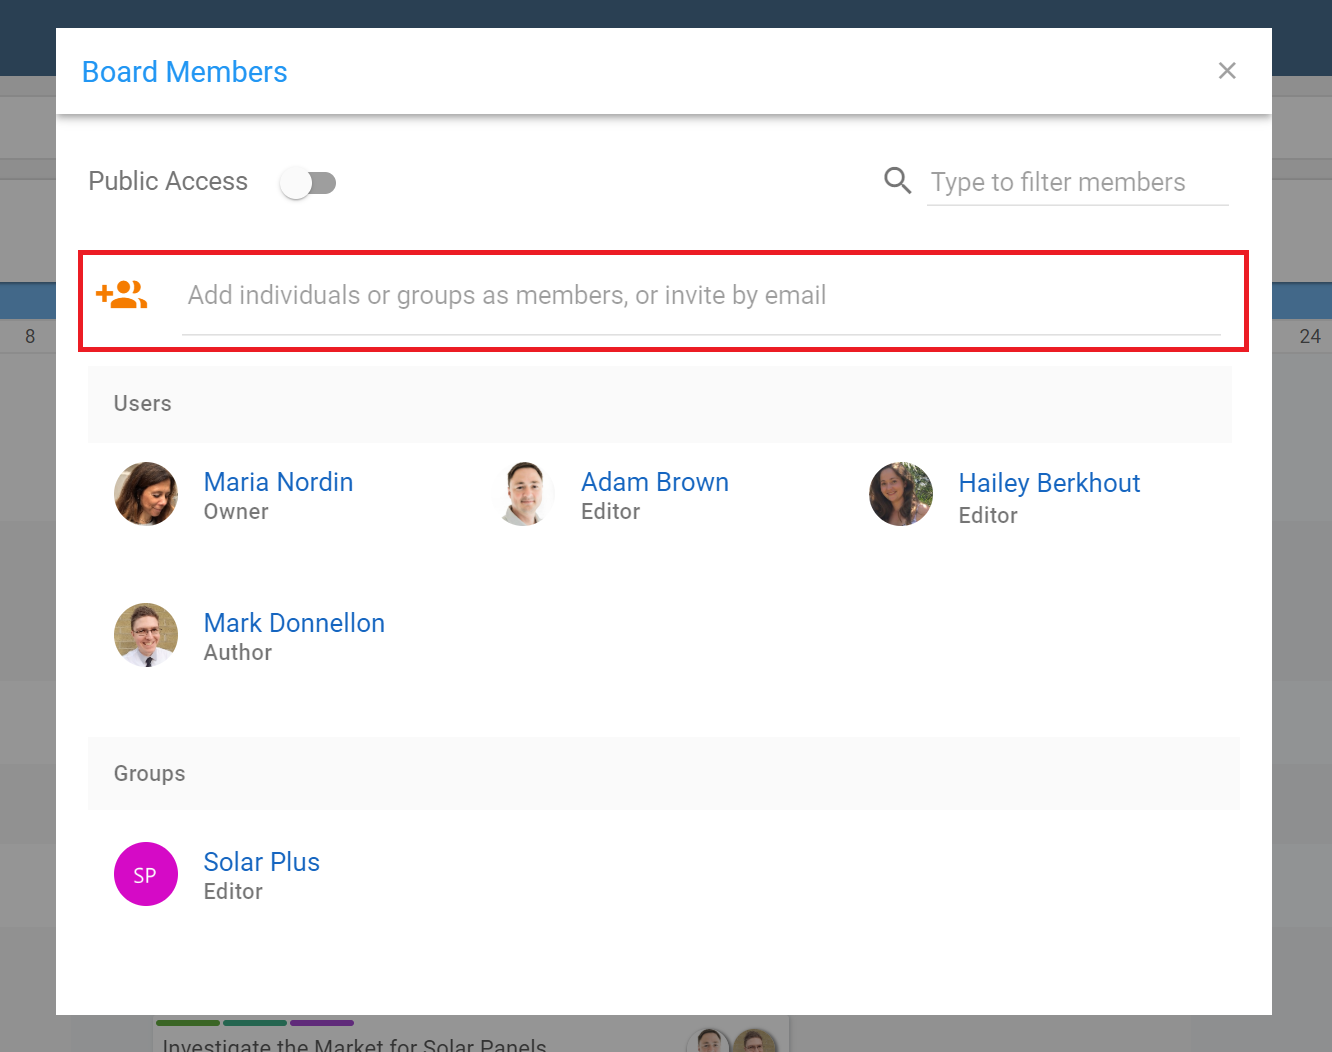
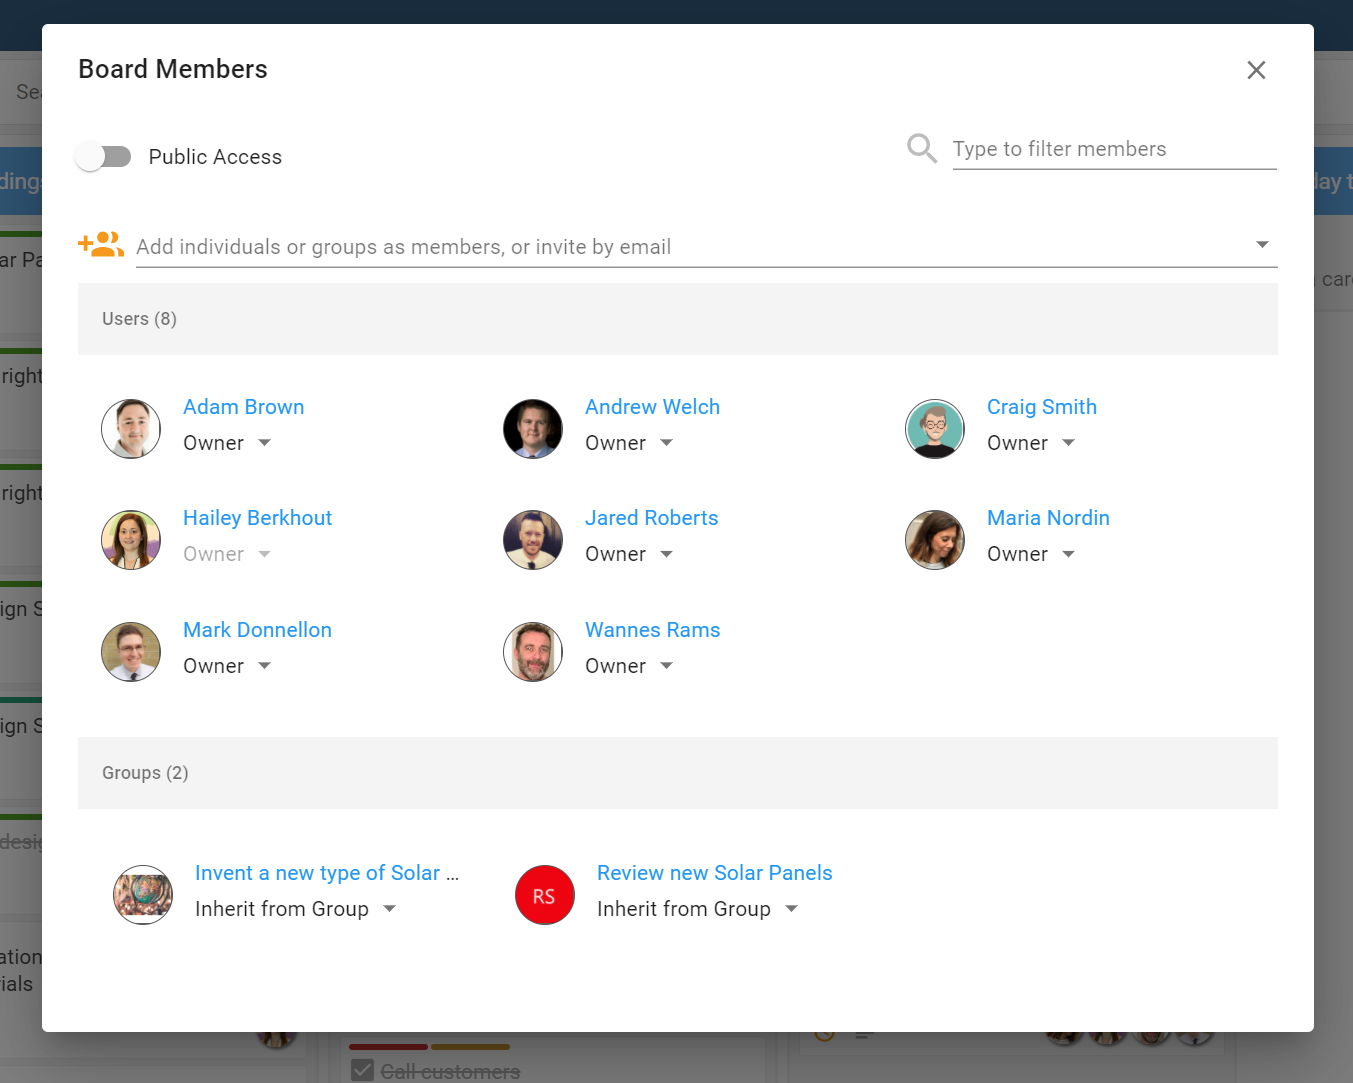
image updates to permissions and members

diff --git a/docs/boards/howto/adding-members-to-a-board.md b/docs/boards/howto/adding-members-to-a-board.md
@@ -8,7 +8,7 @@ You can add members when you first create a board.
 
 In the *New Board* creation phase, type in the name of any colleague or group in your organisation in the Add People field, or type in an email address of someone who is external to your organisation.
 
-You can also decide if you would like the board to have Public Access, meaning anyone in your organisation will be able to view the board (although not able to contribute unless they have been invited.)
+You can also decide if you would like the board to have Public Access, meaning anyone in your organisation will be able to view the board and participate depending on what level of permission you have set (reader, author, editor.)
 
 ![](/assets/boards/adding-members-to-boards1.png)
 
@@ -28,16 +28,10 @@ New members will be notified that they have been invited to your board.
 
 [A board can be added to a channel within Teams](/boards/howto/adding-boards-to-teams/) to help track progress on tasks and create a collaborative work environment.
 
-When members are added to a channel, this automatically adds them as a member of the board.
+Members of a Team or a Channel will be inherited automatically in to your Huddo Board. 
 
-![](/assets/boards/adding-members-to-boards3.png)
+![](/assets/boards/adding-members-to-boards3.jpg)
 
-You can add members to a channel when you first create it, or at any point after that. When a board is connected to the channel, the members will automatically be added to the board.
 
-Click the` …` to the right of your channel. Then select `Manage Team.` From here, you’ll see existing members and have the opportunity to `Add Members,` using the button on the right-hand side of the screen.
+You can also add members directly to the board by searching them in the `Members` area on the right hand side of the board. Adding members this way, be they in your organisation or external to your organisation, will add them just to the board. Not to the Channel or Team. 
 
-![](/assets/boards/adding-members-to-boards4.png)
-
-Note, that adding members from this location, will allow you to only add members or groups from within your organisation, as this is adding them to both the channel in Microsoft Teams and the board.
-
-To add people external to your organisation, do so directly from the board. They will have access only to the board, not to the Microsoft Team Channel.
